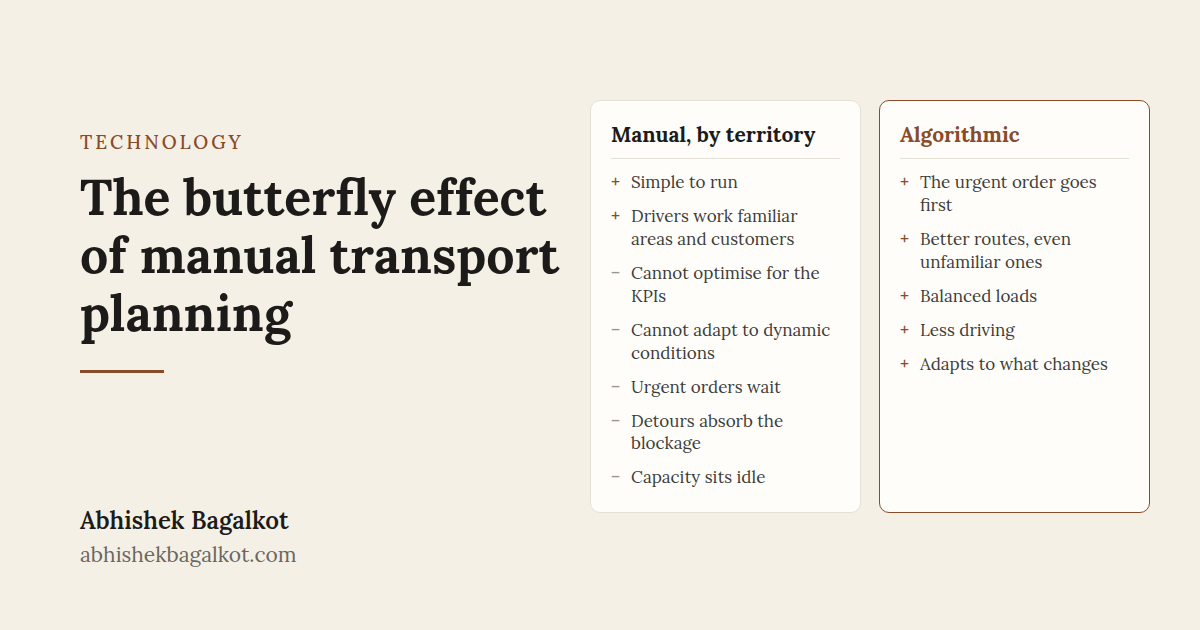
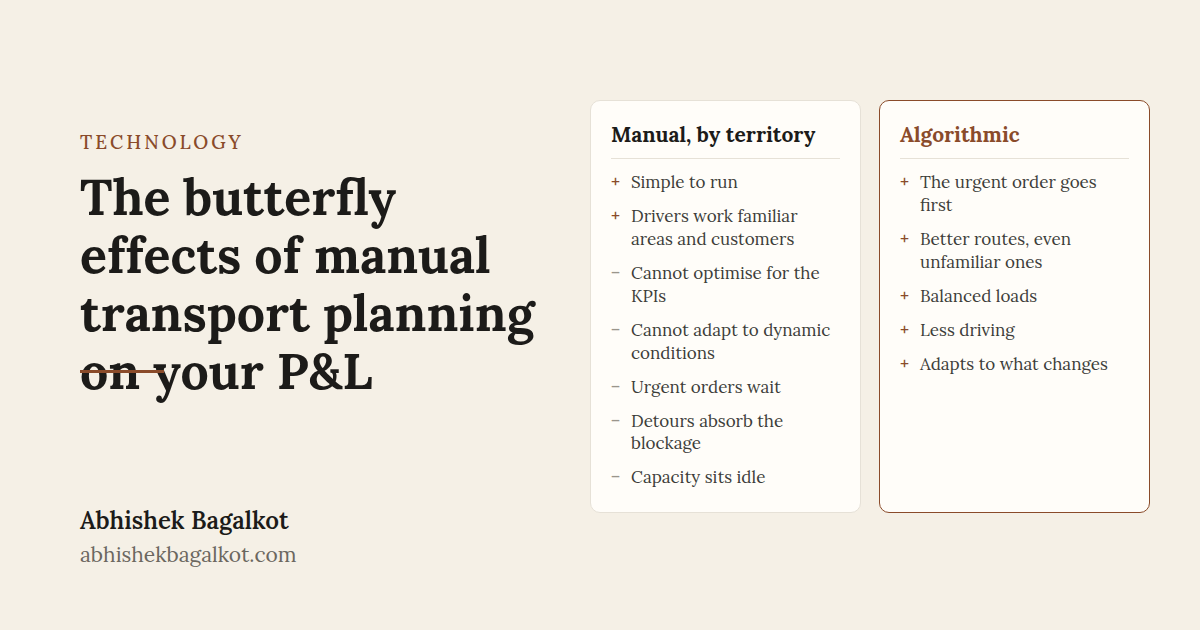
Retitle to The butterfly effects of manual transport planning on your P&L
Claude-Session: https://claude.ai/code/session_01QDP3QscF1BUGft52DE8oD9

Changed region(s): [[0.0617, 0.2714, 0.4625, 0.6333]]

diff --git a/content/posts/the-butterfly-effect-of-manual-transport-planning.md b/content/posts/the-butterfly-effect-of-manual-transport-planning.md
@@ -1,5 +1,5 @@
 ---
-title: "The butterfly effect of manual transport planning"
+title: "The butterfly effects of manual transport planning on your P&L"
 date: 2026-09-29
 categories: ["Technology"]
 tags: ["logistics", "transport planning", "route optimisation", "operations"]
@@ -62,4 +62,4 @@ With the same stops and the same fleet, the algorithm drops the territories. It 
 
 Because the plan is recalculated each time, it adapts to what changes: new orders, blockages, and shifting priorities.
 
-{{< figure src="img/the-butterfly-effect-of-manual-transport-planning.png" alt="The butterfly effect of manual transport planning, compared. Manual, by territory: simple to run; drivers work familiar areas and customers; but cannot optimise for the KPIs, cannot adapt to dynamic conditions, urgent orders wait, detours absorb the blockage, capacity sits idle. Algorithmic: the urgent order goes first; better routes, even unfamiliar ones; balanced loads; less driving; adapts to what changes." >}}
+{{< figure src="img/the-butterfly-effect-of-manual-transport-planning.png" alt="The butterfly effects of manual transport planning on your P&L, compared. Manual, by territory: simple to run; drivers work familiar areas and customers; but cannot optimise for the KPIs, cannot adapt to dynamic conditions, urgent orders wait, detours absorb the blockage, capacity sits idle. Algorithmic: the urgent order goes first; better routes, even unfamiliar ones; balanced loads; less driving; adapts to what changes." >}}
